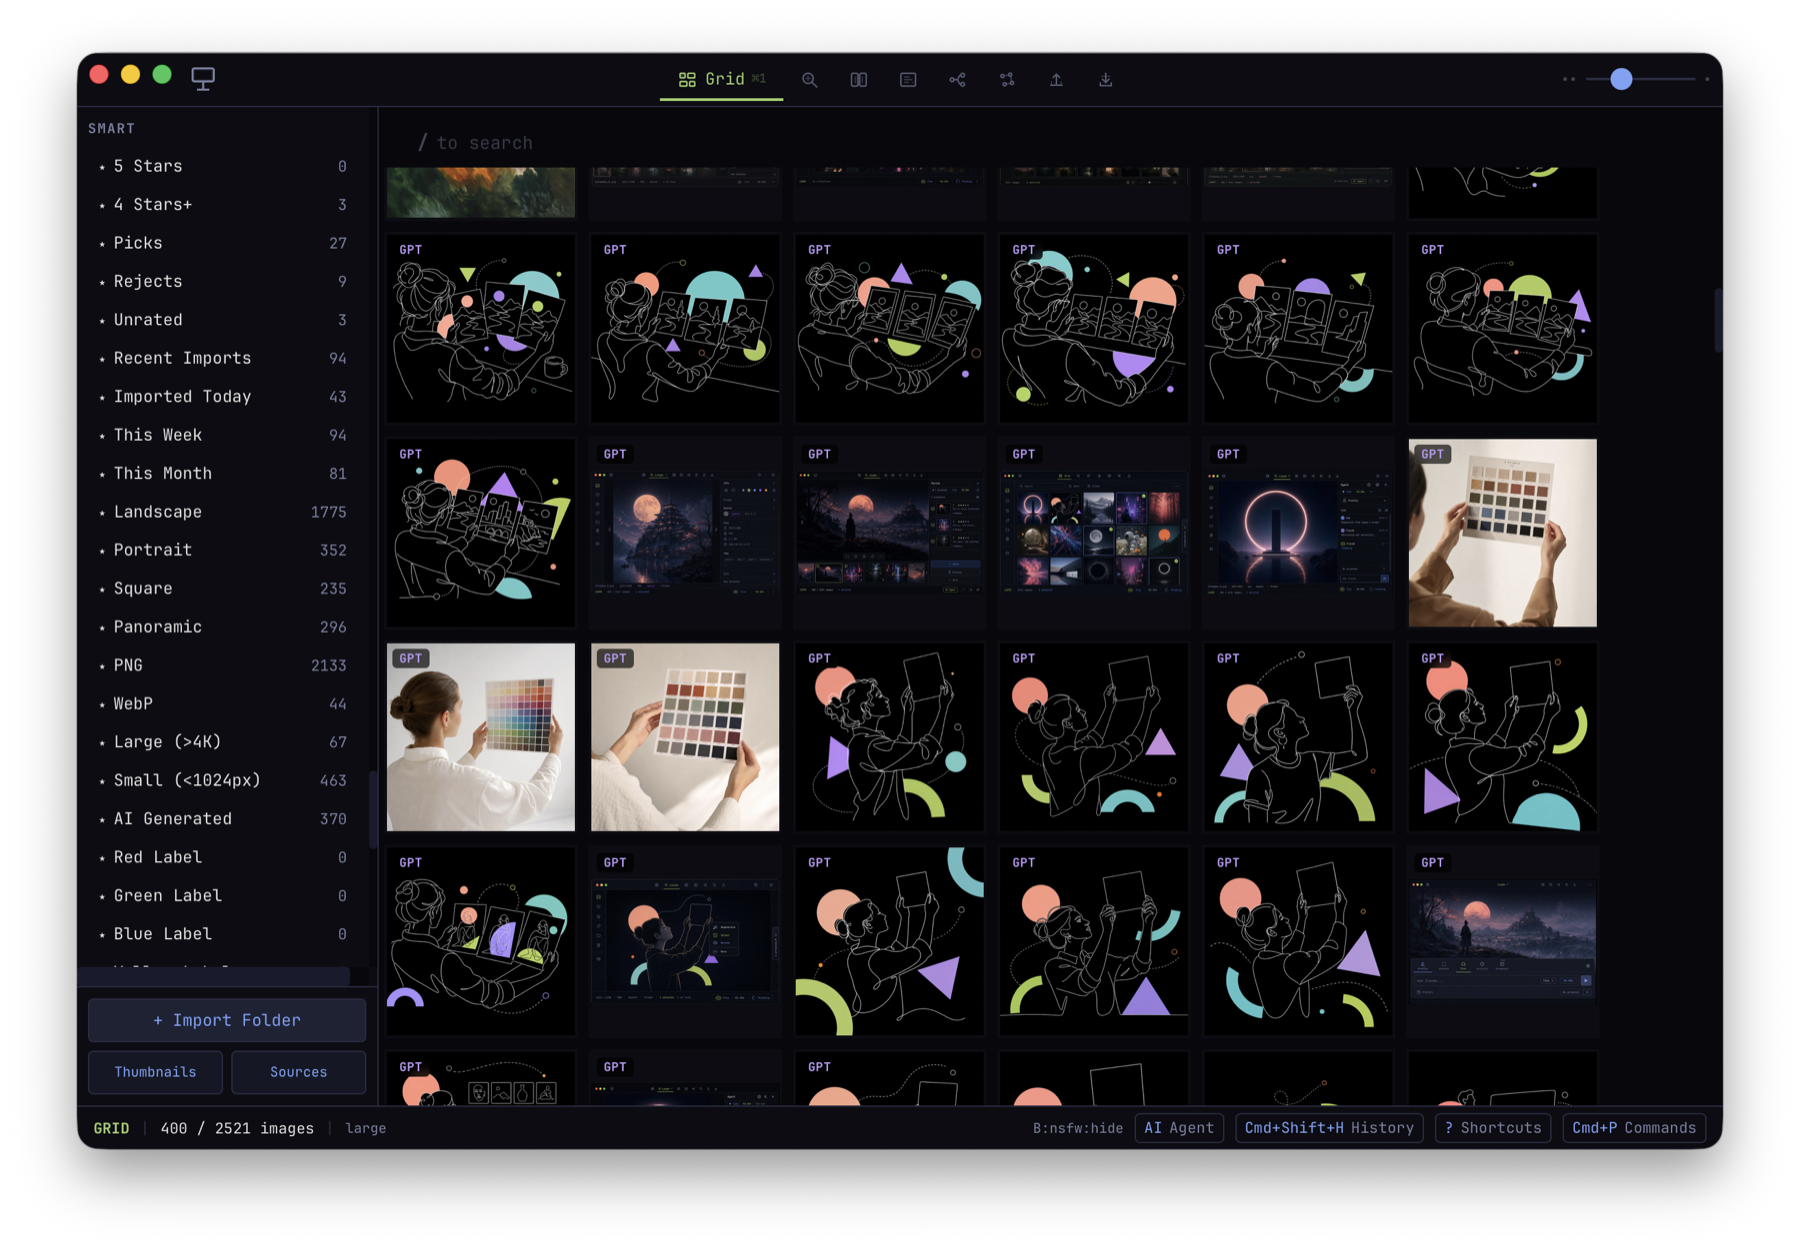
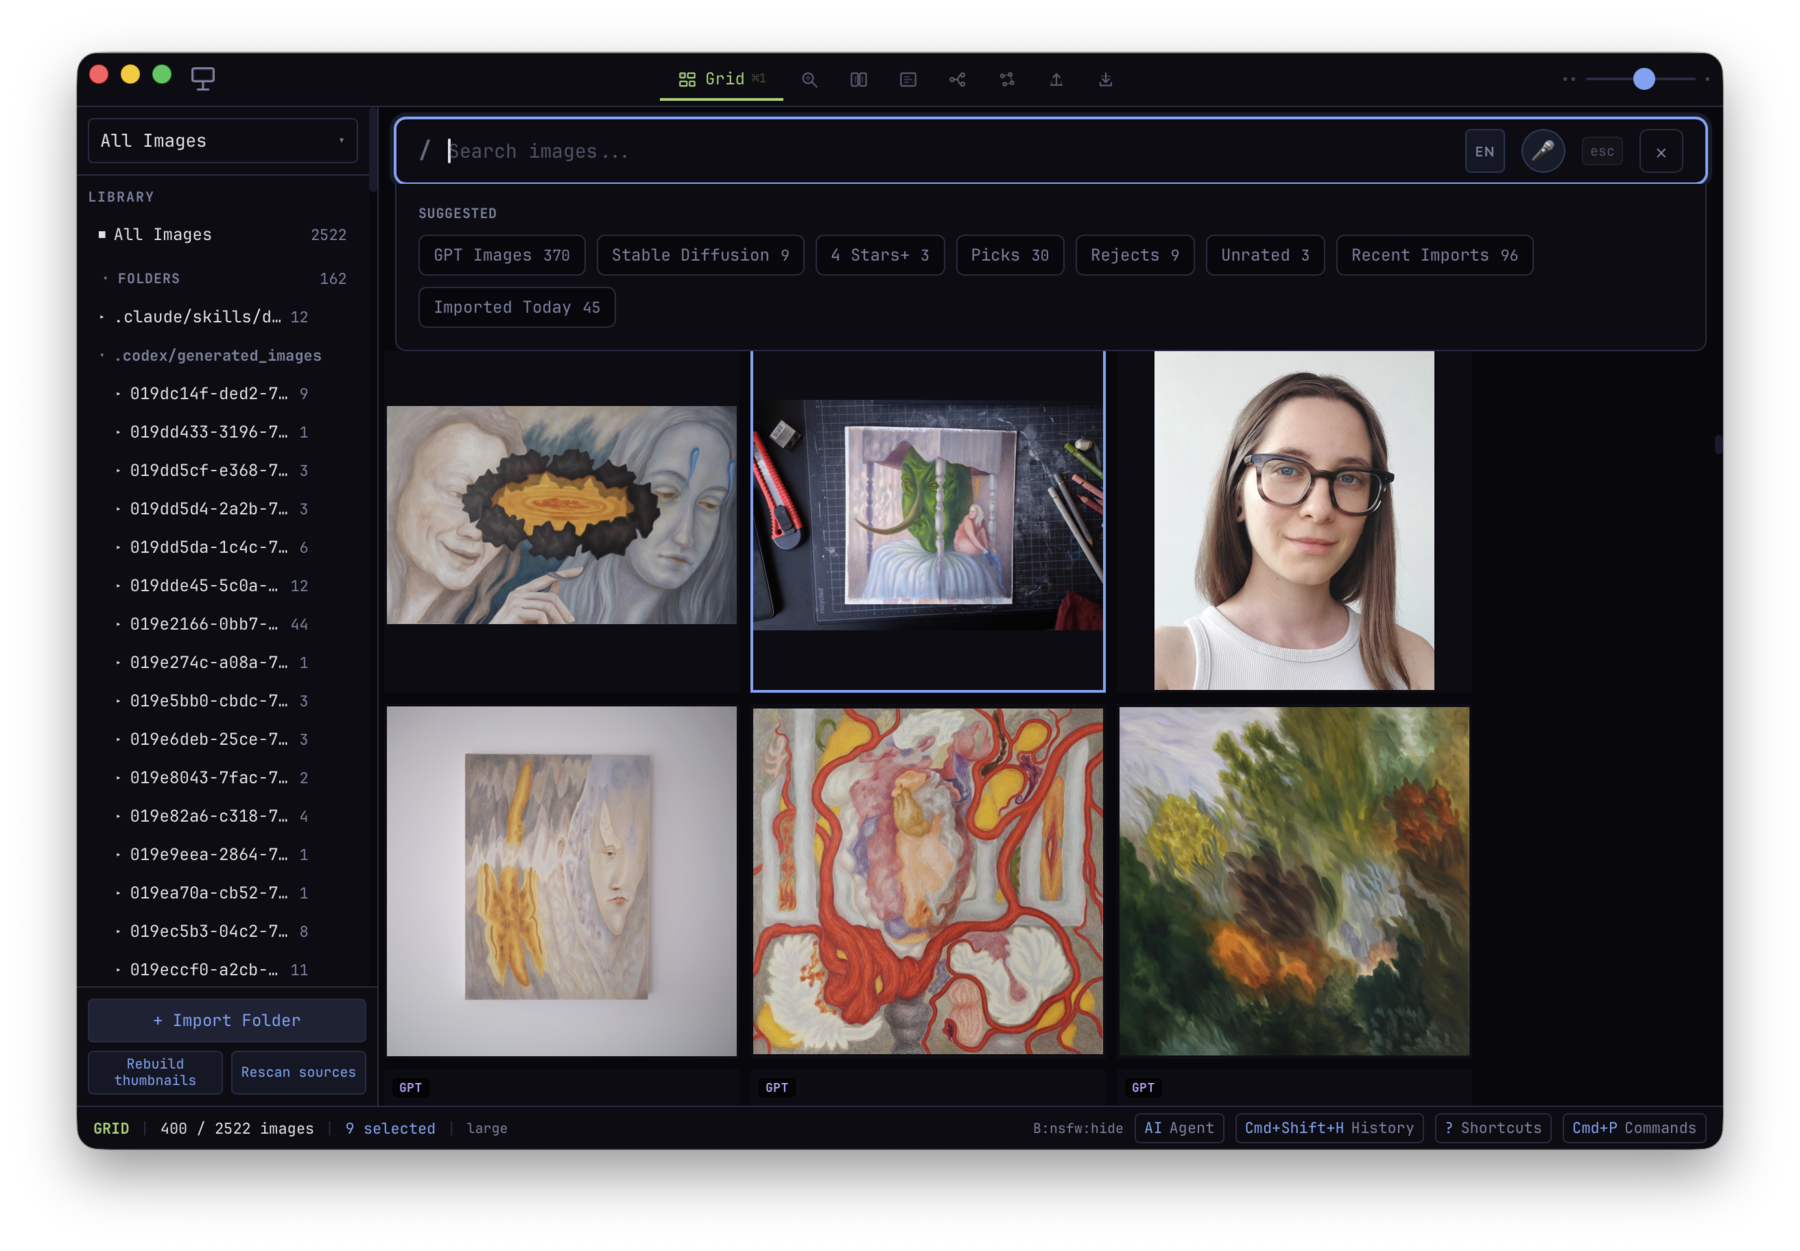
feat(site): expand hero slideshow to an 8-view feature tour
Add four new Cull screenshots (compare, canvas, loupe, publish) and
refresh grid (now with search/filters) and lineage (with charts), all
resized to 1800px to match. New order walks browse -> loupe -> compare
-> lineage -> canvas -> agent -> export -> publish, with meaningful alt
text and eight dots.

diff --git a/site/src/main.ts b/site/src/main.ts
@@ -33,16 +33,24 @@ document.querySelector<HTMLDivElement>("#app")!.innerHTML = `
       </div>
       <figure class="product-shot hero-step-4" data-slideshow>
         <div class="slideshow-track">
-          <img class="slideshow-slide is-current" src="/images/cull-grid-real.png" alt="Cull's grid view with smart collections in the sidebar and a library of images with ratings" />
+          <img class="slideshow-slide is-current" src="/images/cull-grid-real.png" alt="Cull's grid view with the search bar open, showing smart filters like Picks, Rejects, and GPT Images across a large library" />
+          <img class="slideshow-slide" src="/images/cull-loupe-real.png" alt="Cull's loupe view showing a single painterly landscape image full-screen" loading="lazy" />
+          <img class="slideshow-slide" src="/images/cull-compare-real.png" alt="Cull's side-by-side compare view weighing two poster variants against each other" loading="lazy" />
+          <img class="slideshow-slide" src="/images/cull-lineage-real.png" alt="Cull's lineage view grouping a generation series with charts and variant comparisons" loading="lazy" />
+          <img class="slideshow-slide" src="/images/cull-canvas-real.png" alt="Cull's canvas view arranging dozens of images into a freeform moodboard" loading="lazy" />
           <img class="slideshow-slide" src="/images/cull-agent-real.png" alt="Cull's AI Agent panel proposing a portfolio selection next to the image grid" loading="lazy" />
-          <img class="slideshow-slide" src="/images/cull-lineage-real.png" alt="Cull's lineage view grouping images by generation run" loading="lazy" />
           <img class="slideshow-slide" src="/images/cull-export-real.png" alt="Cull's export master with client delivery presets and a slide preview" loading="lazy" />
+          <img class="slideshow-slide" src="/images/cull-publish-real.png" alt="Cull's publish view packaging a collection into a shareable static site" loading="lazy" />
         </div>
         <div class="slideshow-dots" role="tablist" aria-label="Screenshots">
           <button type="button" role="tab" aria-selected="true" aria-label="Screenshot 1" data-slide-dot="0" class="is-current"></button>
           <button type="button" role="tab" aria-selected="false" aria-label="Screenshot 2" data-slide-dot="1"></button>
           <button type="button" role="tab" aria-selected="false" aria-label="Screenshot 3" data-slide-dot="2"></button>
           <button type="button" role="tab" aria-selected="false" aria-label="Screenshot 4" data-slide-dot="3"></button>
+          <button type="button" role="tab" aria-selected="false" aria-label="Screenshot 5" data-slide-dot="4"></button>
+          <button type="button" role="tab" aria-selected="false" aria-label="Screenshot 6" data-slide-dot="5"></button>
+          <button type="button" role="tab" aria-selected="false" aria-label="Screenshot 7" data-slide-dot="6"></button>
+          <button type="button" role="tab" aria-selected="false" aria-label="Screenshot 8" data-slide-dot="7"></button>
         </div>
       </figure>
       <aside class="download-block hero-step-5" aria-label="Download Cull">